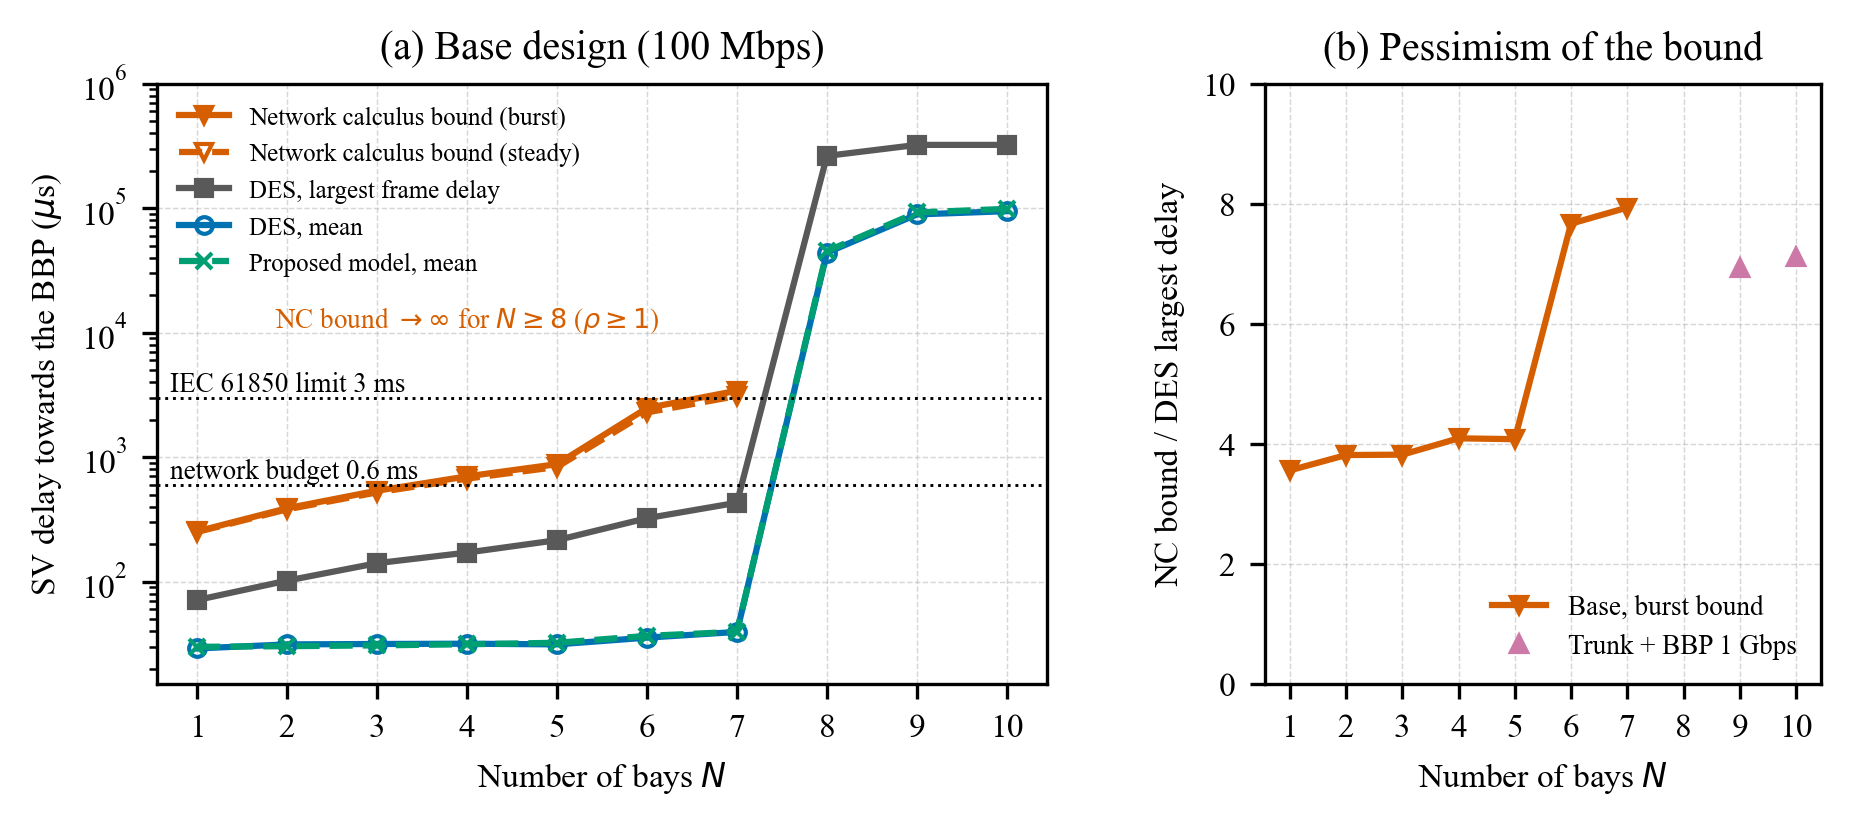
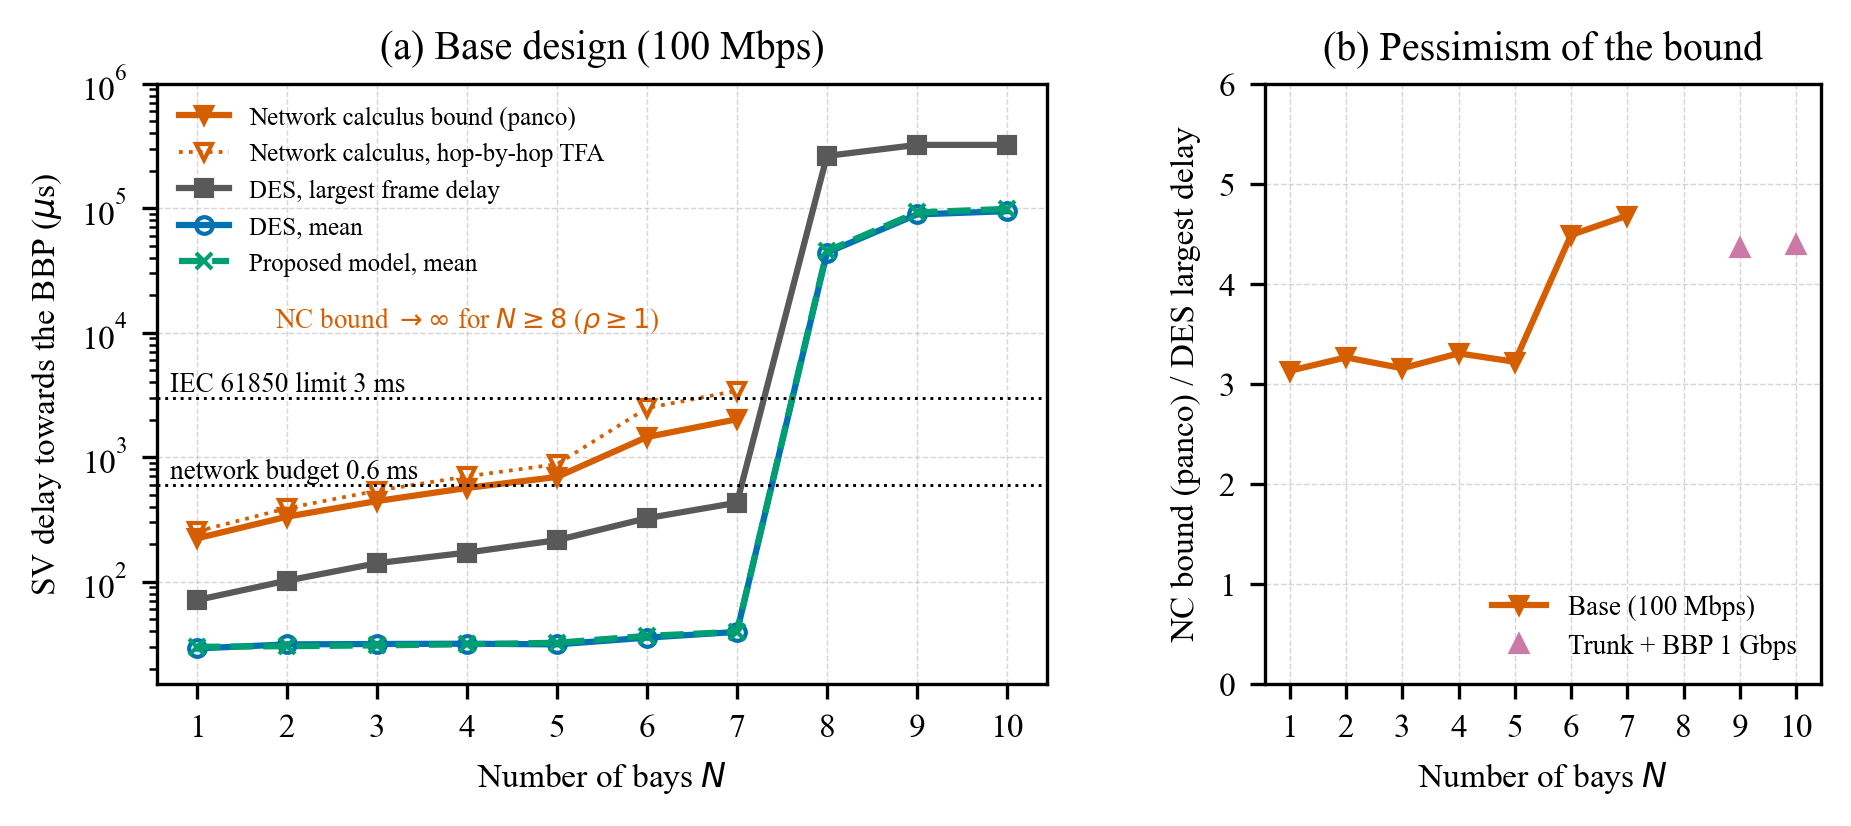
Network-calculus baseline with panco (TFA++, SFA, PLP; static priority) and updated benchmark figure

diff --git a/nc_panco.py b/nc_panco.py
@@ -1,0 +1,150 @@
+# -*- coding: utf-8 -*-
+"""
+nc_panco.py -- Independent network-calculus bound of the SV flow towards the busbar
+protection, computed with panco (A. Bouillard, https://github.com/anne-bou/panco,
+static-priority module + FIFO analyses), as a check of nc_bound.py.
+
+The network is generated from the same demand tensor as the analytical model:
+one panco flow per (VLAN, publisher) stream, token bucket (one frame, rate),
+priority class, maximum frame length (on-wire bits). Servers on, or upstream of,
+the path of the flow of interest:
+
+* publisher link of every device (rate C);
+* switch fabric of SW1 and SW2: one frame per T_PROC is represented as a
+  rate-latency server of rate L_ref / T_PROC with L_ref the on-wire SV frame;
+  frames shorter than L_ref (PTP) are padded to L_ref, so every frame needs at
+  least T_PROC (a valid upper bound of the serial fabric of the DES);
+* trunk ports SW2->SW1 and SW1->SW2 (rate of the trunk);
+* egress port towards the BBP.
+
+Egress ports towards other devices are omitted: they are not on, nor upstream
+of, the path of the flow of interest. A multicast stream that branches before
+the BBP port is split into one flow per branch (counted twice on the shared
+servers, which is conservative). Every server applies non-preemptive strict
+priority (residual service curves of panco's SpNetwork) and FIFO inside a class;
+the SV class is then analysed with TFA++, SFA and the polynomial LP method (PLP).
+
+Setup (not versioned, see .gitignore):
+  git clone https://github.com/anne-bou/panco tools/panco   (commit f035ccc)
+  git -C tools/panco apply ../../panco_local_changes.patch   (only lets panco call a
+      native lp_solve.exe instead of WSL; the analyses are unchanged)
+  pip install -e tools/panco
+  lp_solve 5.5.2.11 (lp_solve_5.5.2.11_exe_win64.zip, SourceForge) in tools/lp_solve;
+  the executable is given by the environment variable PANCO_LPSOLVE.
+
+Output: results/nc_panco.csv
+"""
+
+import os
+import sys
+import time
+import numpy as np
+import pandas as pd
+
+HERE = os.path.dirname(os.path.abspath(__file__))
+os.environ.setdefault('PANCO_LPSOLVE', os.path.join(HERE, 'tools', 'lp_solve', 'lp_solve.exe'))
+
+from panco.descriptor.curves import TokenBucket, RateLatency  # noqa: E402
+from panco.descriptor.server import Server  # noqa: E402
+from panco.staticpriorities.spFlow import SpFlow  # noqa: E402
+from panco.staticpriorities.spNetwork import SpNetwork  # noqa: E402
+from panco.fifo.tfaLP import TfaLP  # noqa: E402
+from panco.fifo.sfaLP import SfaLP  # noqa: E402
+from panco.fifo.fifoLP import FifoLP  # noqa: E402
+
+from config import T_PROC_SWITCH, TRAFFIC_SPECS  # noqa: E402
+from model import generate_devices, generate_demand_tensor, update_goose_demand  # noqa: E402
+from analysis import trunk_capacity_for, port_capacity, CAPACITY_DEFAULT  # noqa: E402
+from nc_bound import streams  # noqa: E402
+
+L_REF = TRAFFIC_SPECS['SV']['size'] * 8          # on-wire SV frame [bit]
+LP_DIR = os.path.join(HERE, 'results', 'panco_lp')
+
+
+def build(n, scenario, dt):
+    devs, sw = generate_devices(n)
+    D0 = generate_demand_tensor(n, devs, 1000.0)
+    st = streams(update_goose_demand(D0, n, dt), sw)
+    switches = sorted(set(sw[s['src']] for s in st) | {sw['BBP']})
+    sw_bbp = sw['BBP']
+
+    servers, idx = [], {}
+
+    def server(key, rate):
+        if key not in idx:
+            idx[key] = len(servers)
+            servers.append(Server([RateLatency(rate, 0)], [TokenBucket(0, rate)]))
+        return idx[key]
+
+    r_fab = L_REF / T_PROC_SWITCH
+    for s in switches:
+        server(('fabric', s), r_fab)
+    server(('bbp',), port_capacity('L5_OutPort_BBP', scenario))
+
+    flows, foi = [], None
+    for s in st:
+        a = sw[s['src']]
+        head = [server(('pub', s['src']), CAPACITY_DEFAULT), idx[('fabric', a)]]
+        remote = sorted({sw[d] for d in s['dsts'] if d != 'BBP' and sw[d] != a})
+        branches = []
+        if 'BBP' in s['dsts']:
+            if a == sw_bbp:
+                branches.append(head + [idx[('bbp',)]])
+            else:
+                branches.append(head + [server(('trunk', a, sw_bbp), trunk_capacity_for(scenario)),
+                                        idx[('fabric', sw_bbp)], idx[('bbp',)]])
+        for b in remote:
+            p = head + [server(('trunk', a, b), trunk_capacity_for(scenario)), idx[('fabric', b)]]
+            if not any(q[:len(p)] == p for q in branches):
+                branches.append(p)
+        if not branches:
+            branches.append(head)
+        bits = max(s['bits'], L_REF)
+        for p in branches:
+            if s['sv'] and s['src'] == f'MU1B{n}' and 'BBP' in s['dsts'] and p[-1] == idx[('bbp',)]:
+                foi = (len(flows), s['prio'])
+            flows.append((s['prio'], p, bits, s['rate'] * s['bits']))
+
+    # panco classes: 0 = highest priority
+    prios = sorted({f[0] for f in flows}, reverse=True)
+    cls = {p: k for k, p in enumerate(prios)}
+    spflows = [SpFlow([TokenBucket(bits, rate)], path, bits, cls[pr]) for pr, path, bits, rate in flows]
+    k_sv = cls[foi[1]]
+    # index of the flow of interest inside its class network
+    foi_in_class = sum(1 for i in range(foi[0]) if spflows[i].sp_class == k_sv)
+    rho_bbp = sum(f[3] for f in flows if idx[('bbp',)] in f[1]) / port_capacity('L5_OutPort_BBP', scenario)
+    return servers, spflows, k_sv, foi_in_class, rho_bbp
+
+
+def analyse(n, scenario, dt):
+    servers, spflows, k_sv, foi, rho = build(n, scenario, dt)
+    os.makedirs(LP_DIR, exist_ok=True)
+    cwd = os.getcwd()
+    os.chdir(LP_DIR)
+    try:
+        if rho >= 1:
+            return rho, np.inf, np.inf, np.inf
+        nets = SpNetwork(servers, spflows).equiv_network(False)
+        net = nets[k_sv]
+        tfa = TfaLP(net).delay(foi)
+        sfa = SfaLP(net).delay(foi)
+        plp = FifoLP(net, polynomial=True, sfa=True, tfa=True).delay(foi)
+        return rho, tfa, sfa, plp
+    finally:
+        os.chdir(cwd)
+
+
+if __name__ == '__main__':
+    sizes = [int(a) for a in sys.argv[1:]] or list(range(1, 11))
+    rows = []
+    for scenario in ('base', 'upgraded'):
+        for n in sizes:
+            for tag, dt in (('steady', 1000.0), ('burst', 4.0)):
+                t0 = time.perf_counter()
+                rho, tfa, sfa, plp = analyse(n, scenario, dt)
+                rows.append({'Scenario': scenario, 'N_Bays': n, 'Snapshot': tag, 'Rho_BBP': rho,
+                             'TFA_us': tfa * 1e6, 'SFA_us': sfa * 1e6, 'PLP_us': plp * 1e6,
+                             'Runtime_s': time.perf_counter() - t0})
+                print({k: (round(v, 3) if isinstance(v, float) else v) for k, v in rows[-1].items()}, flush=True)
+    out = os.path.join('results', 'nc_panco.csv' if len(sizes) == 10 else 'nc_panco_partial.csv')
+    pd.DataFrame(rows).to_csv(out, index=False, float_format='%.3f')

diff --git a/benchmark_figure.py b/benchmark_figure.py
@@ -3,13 +3,14 @@
 benchmark_figure.py -- Proposed model vs network calculus vs DES, N = 1..10.
 
 (a) Base scenario: network-calculus bound of the worst SV flow to the BBP
-    (steady state and all-bay burst peak), DES largest and mean SV delay,
-    and the proposed (mean) model, with the 0.6 ms network budget and the
-    3 ms transfer-time limit.
-(b) Ratio of the network-calculus bound to the largest delay observed in the
-    DES for every compliant configuration.
+    computed with panco (nc_panco.py; best of TFA++, SFA and PLP, worst of the
+    steady and all-bay burst snapshots), the simpler hop-by-hop bound of
+    nc_bound.py, DES largest and mean SV delay, and the proposed (mean) model,
+    with the 0.6 ms network budget and the 3 ms transfer-time limit.
+(b) Ratio of the panco bound to the largest delay observed in the DES for every
+    compliant configuration.
 
-Inputs: results/nc_bound.csv (nc_bound.py), des_reference.csv,
+Inputs: results/nc_panco.csv, results/nc_bound.csv, des_reference.csv,
         analytic_vs_des.csv (compare_des.py)
 Output: results/paper/fig_benchmark.png, results/benchmark_table.csv
 """
@@ -21,22 +22,37 @@ import matplotlib
 matplotlib.use('Agg')
 import matplotlib.pyplot as plt
 
-nc = pd.read_csv(os.path.join('results', 'nc_bound.csv'))
+pan = pd.read_csv(os.path.join('results', 'nc_panco.csv'))
+pan['best_us'] = pan[['TFA_us', 'SFA_us', 'PLP_us']].min(axis=1)
+own = pd.read_csv(os.path.join('results', 'nc_bound.csv'))
 des = pd.read_csv('des_reference.csv')
 an = pd.read_csv('analytic_vs_des.csv')
 
-b = nc[nc.Scenario == 'base'].pivot(index='N_Bays', columns='Snapshot', values='NC_bound_us')
+
+def per_n(df, col, scen):
+    """Bound of a configuration: worst of the steady and burst snapshots."""
+    return df[df.Scenario == scen].groupby('N_Bays')[col].max()
+
+
 d = des[des.Scenario == 'base'].set_index('N_Bays')
 a = an[an.Scenario == 'base'].set_index('N')
-tab = pd.DataFrame({'NC_steady_us': b['steady'], 'NC_burst_us': b['burst'],
+tab = pd.DataFrame({'NC_panco_us': per_n(pan, 'best_us', 'base'),
+                    'NC_panco_TFA_us': per_n(pan, 'TFA_us', 'base'),
+                    'NC_panco_SFA_us': per_n(pan, 'SFA_us', 'base'),
+                    'NC_panco_PLP_us': per_n(pan, 'PLP_us', 'base'),
+                    'NC_hop_by_hop_us': per_n(own, 'NC_bound_us', 'base'),
                     'DES_max_us': d.SV_max_us, 'DES_mean_us': d.SV_mean_us,
                     'Proposed_mean_us': a.SV_an})
-tab['NC_over_DES_max'] = tab.NC_burst_us / tab.DES_max_us
-up = nc[nc.Scenario == 'upgraded'].pivot(index='N_Bays', columns='Snapshot', values='NC_bound_us')
+tab['NC_over_DES_max'] = tab.NC_panco_us / tab.DES_max_us
+tab['Hop_by_hop_over_panco'] = tab.NC_hop_by_hop_us / tab.NC_panco_us
 dup = des[des.Scenario == 'upgraded'].set_index('N_Bays')
-tab_up = pd.DataFrame({'NC_burst_us': up['burst'], 'DES_max_us': dup.SV_max_us}).dropna()
-tab_up['NC_over_DES_max'] = tab_up.NC_burst_us / tab_up.DES_max_us
+tab_up = pd.DataFrame({'NC_panco_us': per_n(pan, 'best_us', 'upgraded'),
+                       'NC_hop_by_hop_us': per_n(own, 'NC_bound_us', 'upgraded'),
+                       'DES_max_us': dup.SV_max_us})
+tab_up['NC_over_DES_max'] = tab_up.NC_panco_us / tab_up.DES_max_us
+tab_up['Hop_by_hop_over_panco'] = tab_up.NC_hop_by_hop_us / tab_up.NC_panco_us
 tab.to_csv(os.path.join('results', 'benchmark_table.csv'), float_format='%.2f')
+tab_up.to_csv(os.path.join('results', 'benchmark_table_upgraded.csv'), float_format='%.2f')
 print(tab.round(2).to_string())
 print(tab_up.round(2).to_string())
 
@@ -45,9 +61,10 @@ plt.rcParams.update({'font.family': 'serif', 'font.serif': ['Times New Roman', '
                      'savefig.dpi': 300, 'savefig.bbox': 'tight'})
 fig, (ax1, ax2) = plt.subplots(1, 2, figsize=(7.16, 2.6), gridspec_kw={'wspace': 0.3, 'width_ratios': [1.6, 1]})
 n = tab.index.values
-fin = np.isfinite(tab.NC_burst_us)
-ax1.semilogy(n[fin], tab.NC_burst_us[fin], 'v-', color='#D55E00', label='Network calculus bound (burst)')
-ax1.semilogy(n[fin], tab.NC_steady_us[fin], 'v--', color='#D55E00', mfc='none', label='Network calculus bound (steady)')
+fin = np.isfinite(tab.NC_panco_us)
+ax1.semilogy(n[fin], tab.NC_panco_us[fin], 'v-', color='#D55E00', label='Network calculus bound (panco)')
+ax1.semilogy(n[fin], tab.NC_hop_by_hop_us[fin], 'v:', color='#D55E00', mfc='none', lw=0.9,
+             label='Network calculus, hop-by-hop TFA')
 ax1.semilogy(n, tab.DES_max_us, 's-', color='0.35', label='DES, largest frame delay')
 ax1.semilogy(n, tab.DES_mean_us, 'o-', color='#0072B2', mfc='none', label='DES, mean')
 ax1.semilogy(n, tab.Proposed_mean_us, 'x--', color='#009E73', label='Proposed model, mean')
@@ -64,13 +81,14 @@ ax1.legend(frameon=False, loc='upper left', fontsize=6)
 ax1.set_ylim(15, 1e6)
 
 ok = tab[fin]
-ax2.plot(ok.index, ok.NC_over_DES_max, 'v-', color='#D55E00', label='Base, burst bound')
-ax2.plot(tab_up.index, tab_up.NC_over_DES_max, '^', color='#CC79A7', label='Trunk + BBP 1 Gbps')
+ax2.plot(ok.index, ok.NC_over_DES_max, 'v-', color='#D55E00', label='Base (100 Mbps)')
+up_ok = tab_up.dropna()
+ax2.plot(up_ok.index, up_ok.NC_over_DES_max, '^', color='#CC79A7', label='Trunk + BBP 1 Gbps')
 ax2.set_xticks(range(1, 11))
 ax2.set_xlabel('Number of bays $N$')
-ax2.set_ylabel('NC bound / DES largest delay')
+ax2.set_ylabel('NC bound (panco) / DES largest delay')
 ax2.set_title('(b) Pessimism of the bound')
-ax2.set_ylim(0, 10)
+ax2.set_ylim(0, 6)
 ax2.legend(frameon=False, loc='lower right')
 for ax in (ax1, ax2):
     ax.grid(True, ls='--', lw=0.35, alpha=0.5)
